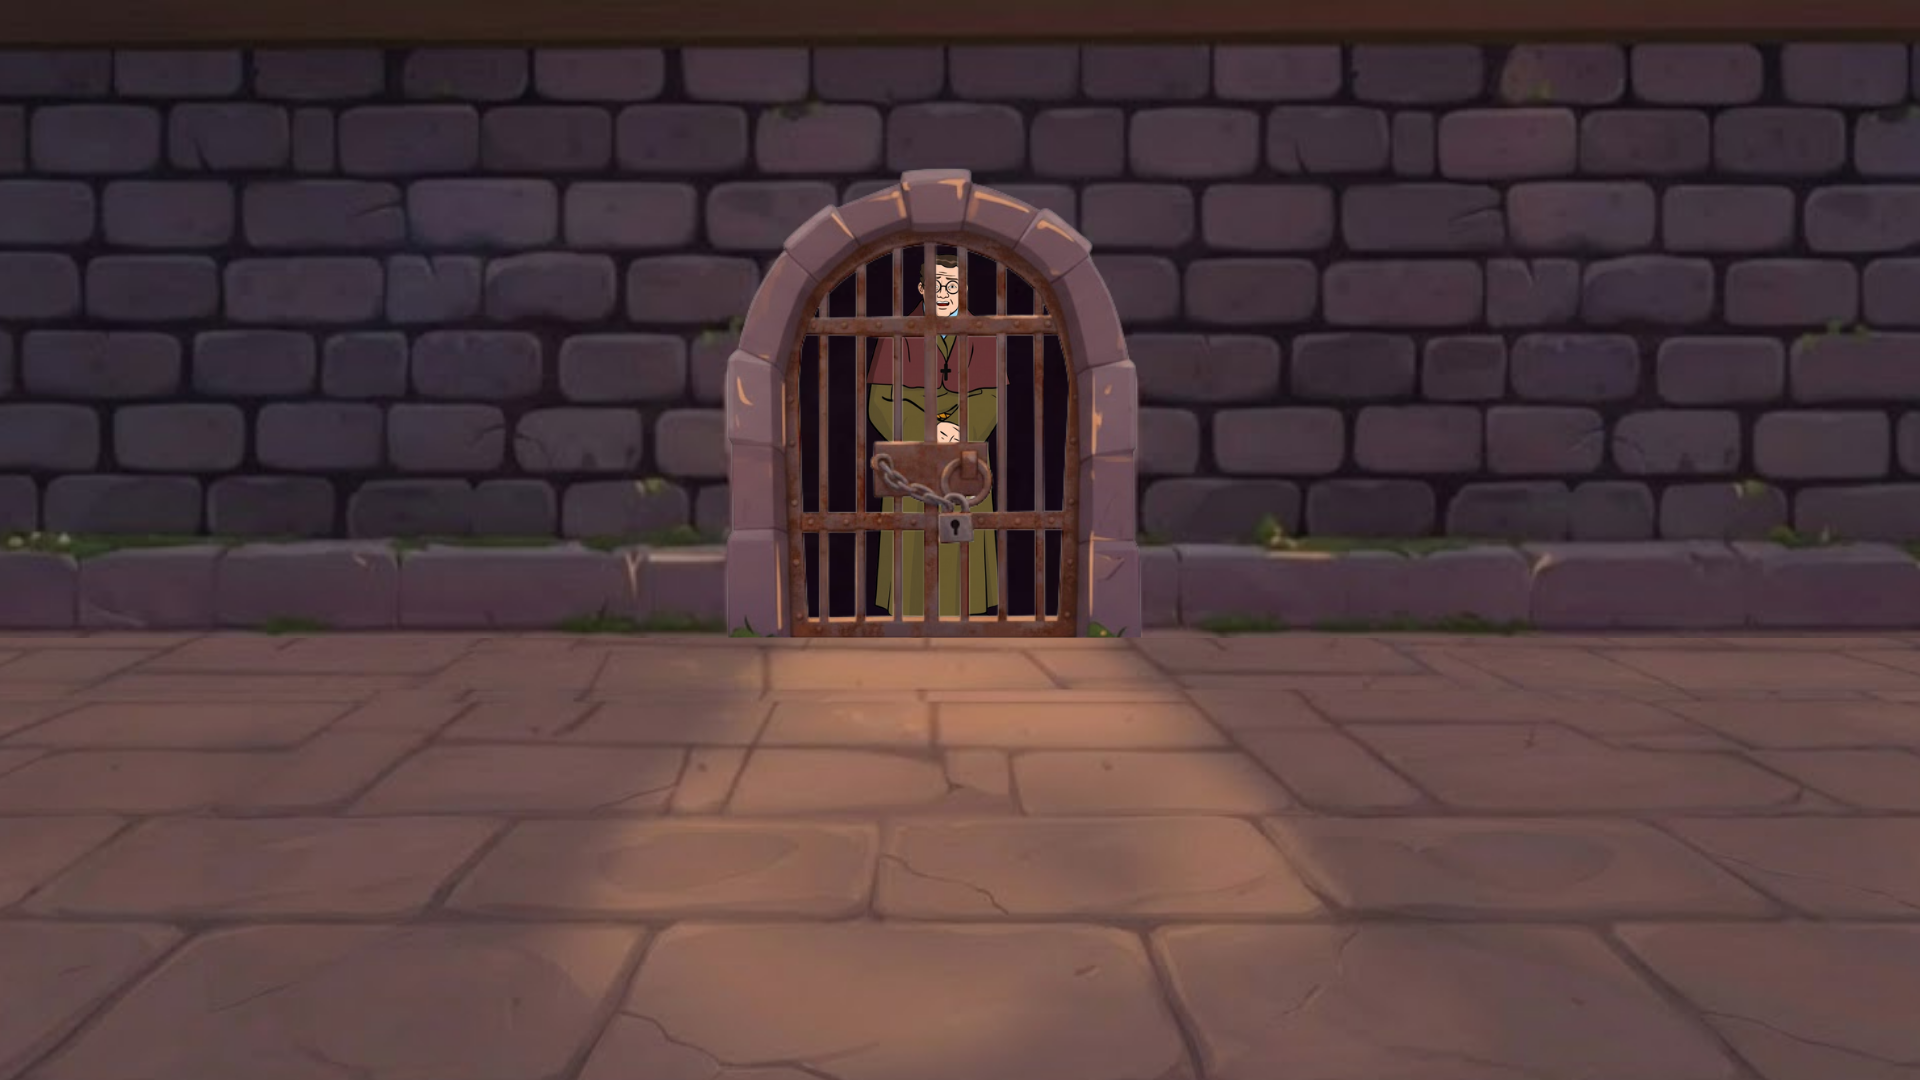
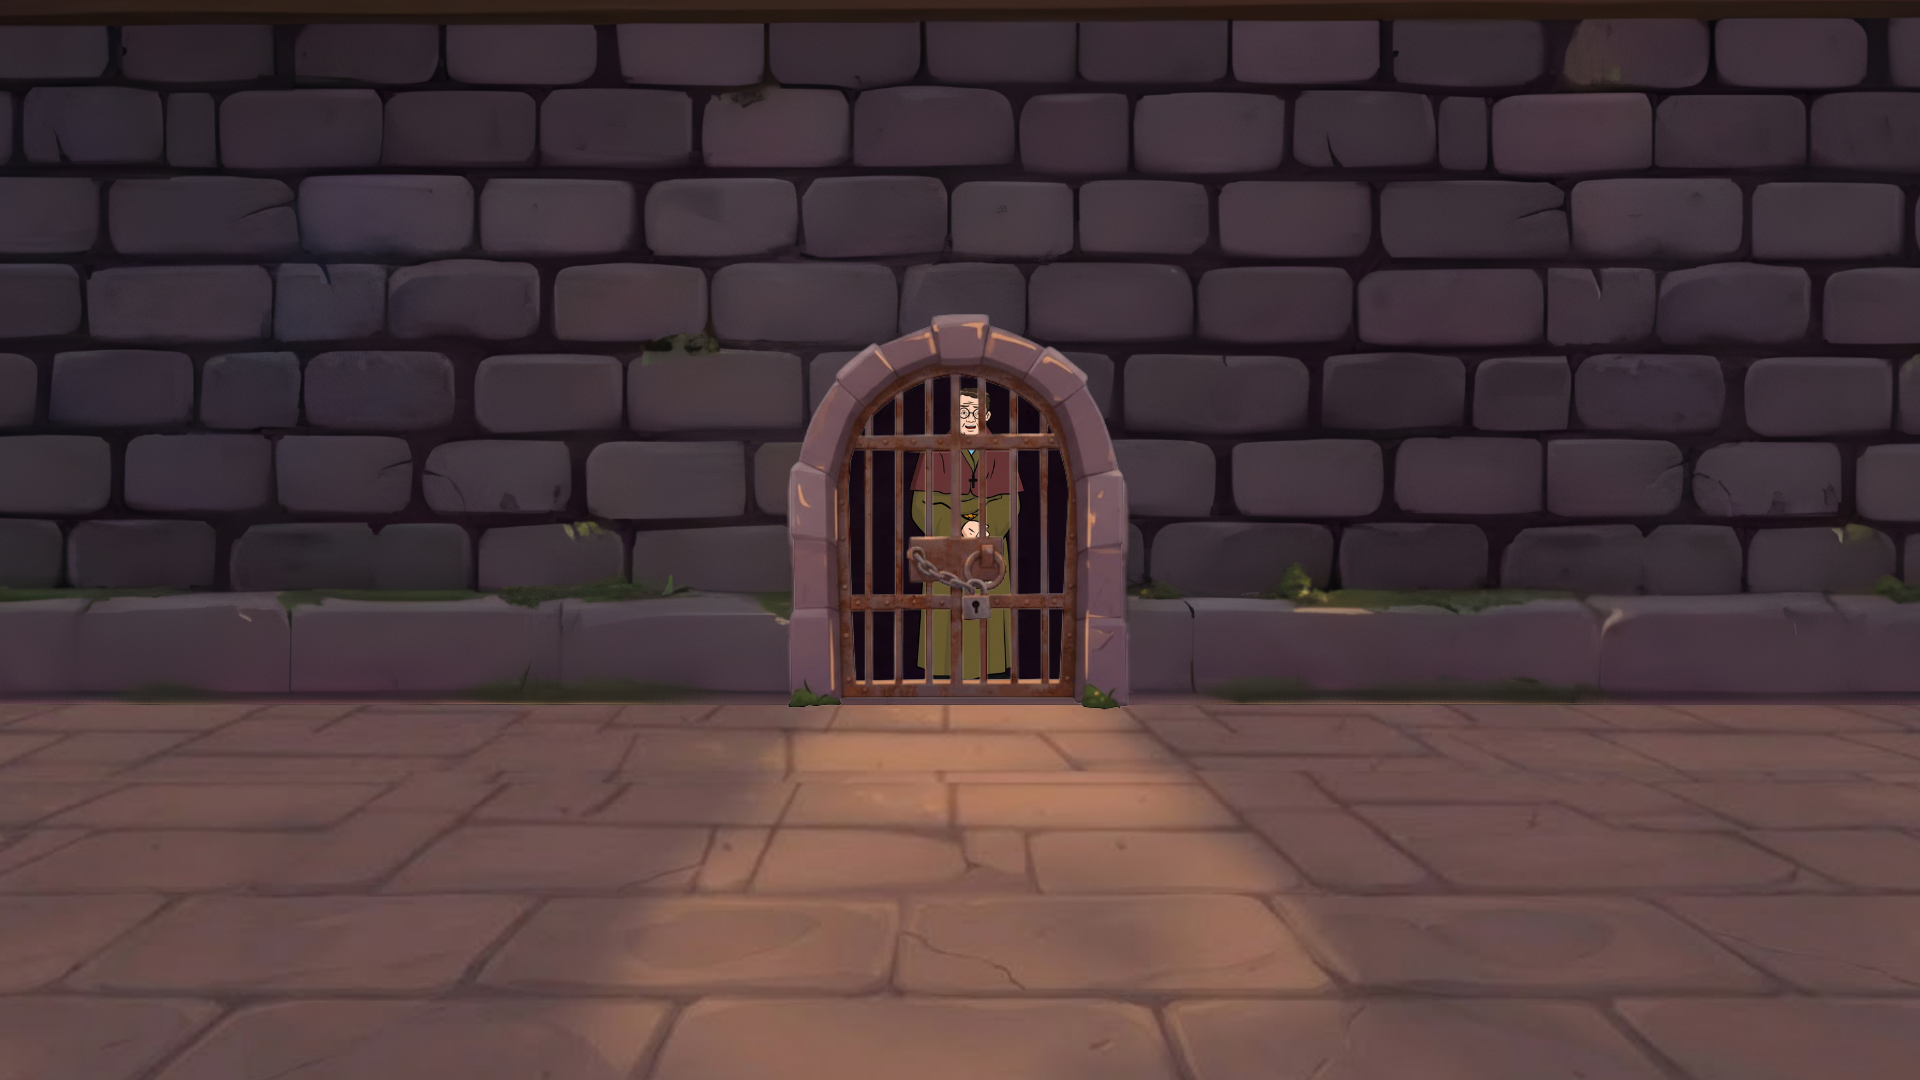
guessword page responsiveness -- Nov. 29, 2025

diff --git a/resources/js/Pages/Challenge/GuessWord/page.tsx b/resources/js/Pages/Challenge/GuessWord/page.tsx
@@ -594,8 +594,8 @@ const checkAnswer = async (source = "manual") => {
                     <audio ref={gameOverSoundRef} src="/Music/fail.mp3" />
 
                     {/* Timer Display */}
-                    <div className="absolute top-[140px] lg:top-[140px] right-[485px] lg:right-[483px] flex flex-col items-center gap-[30px]">
-                        <div className="relative w-20 h-20 mb-4">
+                    <div className="fixed top-[220px] left-1/2 transform -translate-x-1/2 lg:top-[140px] lg:right-[470px] lg:left-auto lg:transform-none flex flex-col items-center gap-[30px] z-50">
+                        <div className="relative w-12 h-12 lg:w-20 lg:h-20 mb-4">
                             <div className="absolute inset-0 rounded-full border-4 border-black overflow-hidden shadow-lg">
                                 <div
                                     className="absolute bottom-0 w-full origin-bottom transition-transform duration-300 ease-linear will-change-transform"
@@ -612,7 +612,7 @@ const checkAnswer = async (source = "manual") => {
                                     }}
                                 />
                             </div>
-                            <span className="absolute inset-0 flex items-center justify-center text-xl font-bold drop-shadow-md">
+                            <span className="absolute inset-0 flex items-center justify-center text-sm lg:text-xl font-bold drop-shadow-md text-white">
                                 {Math.ceil(timeLeft)}
                             </span>
                             {penalty && (
@@ -622,7 +622,6 @@ const checkAnswer = async (source = "manual") => {
                             )}
                         </div>
                     </div>
-
                     {/* Main Game Content */}
                     <div
                         className="h-screen flex flex-col items-start justify-end bg-amber-50 p-6 bg-cover bg-center overflow-hidden"
@@ -639,19 +638,19 @@ const checkAnswer = async (source = "manual") => {
                         />
                         
                         {/* Content */}
-                        <div className="relative z-10 w-full">
-                            <div className="flex flex-row justify-between overflow-hidden">
+                        <div className=" relative z-10 w-full">
+                            <div className=" fixed flex flex-row justify-between overflow-hidden top-5">
                                 <div className="flex flex-row overflow-hidden">
-                                    <div className="bg-orange-600 text-white font-mono font-bold px-4 py-2 text-2xl overflow-hidden">
+                                    <div className="bg-orange-600 text-white font-mono font-bold px-2 md:px-2 lg:px-4 md:py-2 lg:py-2 py-2 text-xl md:text-xl lg:text-2xl overflow-hidden">
                                         Kabanata {kabanata_number}:
                                     </div>
-                                    <div className="text-white font-bold font-mono px-2 py-2 text-2xl overflow-hidden">
+                                    <div className="text-white font-bold font-mono px-2 md:px-2 lg:px-2 py-2 md:py-2 lg:py-2 text-xl md:text-xl lg:text-2xl overflow-hidden">
                                         {kabanata_title}
                                     </div>
                                 </div>
                                 <button
                                     onClick={togglePause}
-                                    className="absolute top-6 right-4 p-2 bg-amber-700 rounded-full hover:bg-amber-600 transition-colors overflow-hidden"
+                                    className="fixed top-6 right-10 p-2 bg-amber-700 rounded-full hover:bg-amber-600 transition-colors overflow-hidden"
                                     title="Pause Game"
                                 >
                                     <svg 
@@ -666,9 +665,9 @@ const checkAnswer = async (source = "manual") => {
                             </div>
                         </div>
 
-                        <div className="flex flex-col lg:ml-16 lg:scale-90 items-center justify-start p-6 overflow-hidden">
+                        <div className="fixed flex flex-col lg:ml-16 bottom-0 items-center justify-center p-6 overflow-hidden scale-75 md:scale-75 lg:scale-90 z-100 lg:ml-16 lg:justify-start mb-[-100px] sm:mb-[-100px] md:mb-[-100px] lg:mt-10 lg:mb-10 left-1/2 transform -translate-x-1/2 sm:left-1/2 sm:transform sm:-translate-x-1/2 md:left-1/2 md:transform md:-translate-x-1/2 lg:left-auto lg:transform-none">
                             {/* Question Display */}
-                            <div className="relative w-[550px] h-[250px] flex items-center justify-center">
+                            <div className="relative w-[550px] md:w-[550px] lg:w-[550px] h-[250px] md:h-[250px] lg:h-[250px] mb-[300px] sm:mb-[300px] md:mb-[300px] lg:mb-[5px] flex items-center justify-center">
                                 <img
                                     src="/Img/Challenge/GuessWord/modalBG.png"
                                     alt="Wooden Background"
@@ -678,14 +677,14 @@ const checkAnswer = async (source = "manual") => {
                                     <span className="text-white text-xl mt-3 font-bold">
                                         {currentIndex + 1}/{initialQuestionsRef.current.length}
                                     </span>
-                                    <p className="text-white italic mt-5 text-base font-bold ml-5 mr-5 leading-relaxed">
+                                    <p className="text-white mt-5 text-base font-mono ml-5 mr-5 leading-relaxed">
                                         {currentQ.question}
                                     </p>
                                 </div>
                             </div>
 
                             {/* Answer Input */}
-                            <div className="flex items-center font-mono justify-center gap-[2px] mt-8 w-full max-w-6xl">
+                            <div className="flex items-center font-mono justify-center gap-[2px] mt-10 lg:mt-8 md:mt-8 w-full max-w-6xl">
                                 <div
                                     className={`flex-1 text-5xl mx-1 text-center font-black 
                                     ${answerStatus === "correct" ? "text-green-400" : answerStatus === "wrong" ? "text-red-500 shake" : "text-white"}`}
@@ -722,7 +721,7 @@ const checkAnswer = async (source = "manual") => {
                             </div>
 
                             {/* Keyboard */}
-                            <div className="flex flex-col items-center gap-3 mt-10">
+                            <div className="flex flex-col items-center gap-3 mt-8">
                                 {keyboardLayout.map((row, rowIndex) => (
                                     <div key={rowIndex} className="flex gap-3">
                                         {row.map((letter, index) => (
@@ -802,7 +801,7 @@ const checkAnswer = async (source = "manual") => {
                                         </h2>
 
                                         {/* Action Buttons */}
-                                        <div className="fixed flex gap-8 bottom-[115px] sm:bottom-[105px] md:bottom-[105px] lg:bottom-[105px]">
+                                        <div className="fixed flex gap-8 bottom-[140px]">
                                             {(showModal === "timesup" || showModal === "finished") && (
                                                 <>
                                                     <button className="rounded-full relative z-20" onClick={() => router.get(route('challenge'))}>

diff --git a/resources/js/Pages/Challenge/page.tsx b/resources/js/Pages/Challenge/page.tsx
@@ -588,7 +588,7 @@ const KabanataPage: React.FC<PageProps> = ({
 
                     {filteredKabanatas.data.some(k => k.id === 64) && (
                         <div
-                            className="absolute flex flex-col items-center z-10 left-[530px] sm:left-[230px] md:left-[240px] lg:left-[560px] top-[205px] lg:top-[210px]"
+                            className="absolute flex flex-col items-center z-10 left-[530px] sm:left-[230px] md:left-[240px] lg:left-[560px] top-[205px] lg:top-[235px]"
                         >
                             <div className="relative max-w-[170px] sm:max-w-[300px] lg:max-w-[370px] md:max-w-[370px] h-auto rounded-full flex items-center justify-center">
                                 {/* Conditionally render locked or unlocked door */}

diff --git a/resources/js/Pages/Challenge/Quiz/page.tsx b/resources/js/Pages/Challenge/Quiz/page.tsx
@@ -419,7 +419,7 @@ export default function Quiz({ kabanataId, kabanata_number, kabanata_title, quiz
                 </div>
             </div>
             
-            <div className='flex flex-col items-center justify-center relative w-[750px] h-[600px] bg-transparent'>
+            <div className='flex flex-col items-center justify-center relative w-[750px] h-[600px] bg-transparent mt-20'>
                 <img
                     src="/Img/Challenge/Quiz/modalBG.png"
                     alt="Wooden Frame"
